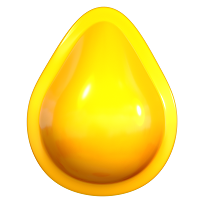
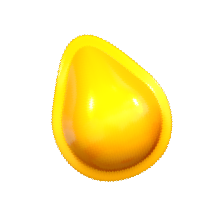
Update candy images to use all 6 PNG files properly
- Fix candy file mappings to use correct PNG files (red, blue, green, yellow, purple, orange)
- Update defaults to include all 6 candy colors
- Remove old incorrect file extensions (webp, jpg)
- Ensure all 6 colors work in game and level editor

diff --git a/app/frontend/src/game/Match3Scene.ts b/app/frontend/src/game/Match3Scene.ts
@@ -12,7 +12,7 @@ export class Match3Scene extends Phaser.Scene {
   private gridWidth = 8  // Default, will be overridden by init
   private gridHeight = 8  // Default, will be overridden by init
   private tileSize = 64
-  private candyTypes = ['red', 'blue', 'green', 'yellow', 'purple']  // Default, will be overridden
+  private candyTypes = ['red', 'blue', 'green', 'yellow', 'purple', 'orange']  // Default with all 6 colors
   private selectedCandy: Candy | null = null
   private canMove = false  // Start with moves disabled until data loads
   private score = 0
@@ -106,15 +106,14 @@ export class Match3Scene extends Phaser.Scene {
   }
 
   preload() {
-    // Load candy images with their actual file extensions
-    // Map all possible candy colors to their image files
+    // Load candy images - all are PNG files now
     const candyFiles: Record<string, string> = {
-      'red': '/candies/red.webp',
+      'red': '/candies/red.png',
       'blue': '/candies/blue.png', 
-      'green': '/candies/green.jpg',
+      'green': '/candies/green.png',
       'yellow': '/candies/yellow.png',
-      'purple': '/candies/orange.jpg',  // Map purple to orange image
-      'orange': '/candies/orange.jpg'   // Also support orange directly
+      'purple': '/candies/purple.png',
+      'orange': '/candies/orange.png'
     }
     
     // Only load the candy types we're actually using

diff --git a/app/frontend/src/pages/LevelEditorPage.tsx b/app/frontend/src/pages/LevelEditorPage.tsx
@@ -10,7 +10,7 @@ export function LevelEditorPage() {
   const [gridSize, setGridSize] = useState({ width: 8, height: 8 })
   const [objective, setObjective] = useState({ type: 'collect', target: 'yellow', count: 100 })
   const [entryFee, setEntryFee] = useState(20)
-  const [candyColors, setCandyColors] = useState(['red', 'yellow', 'green', 'blue', 'purple'])
+  const [candyColors, setCandyColors] = useState(['red', 'yellow', 'green', 'blue', 'purple', 'orange'])
 
   useEffect(() => {
     if (!user?.isAdmin) {

diff --git a/app/frontend/src/pages/GamePage.tsx b/app/frontend/src/pages/GamePage.tsx
@@ -70,7 +70,7 @@ export function GamePage() {
         targetCount: config.objectives.primary.count,
         gridWidth: config?.grid?.width || 8,
         gridHeight: config?.grid?.height || 8,
-        candyColors: config?.candies?.colors || ['red', 'blue', 'green', 'yellow', 'purple'],
+        candyColors: config?.candies?.colors || ['red', 'blue', 'green', 'yellow', 'purple', 'orange'],
         isTestPlay,
         onComplete: () => {
           if (isTestPlay) {
